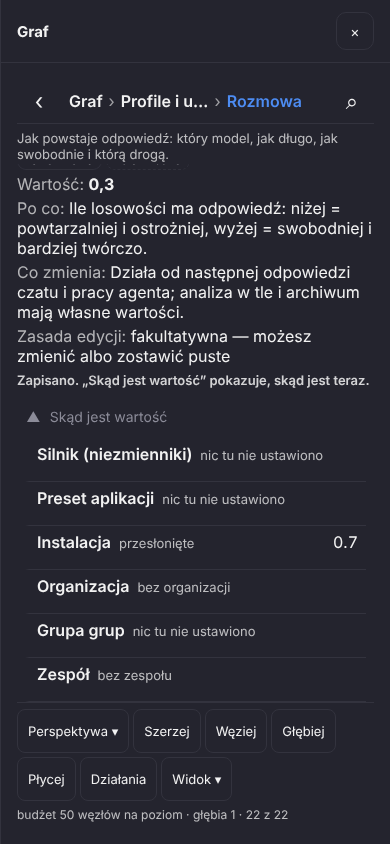
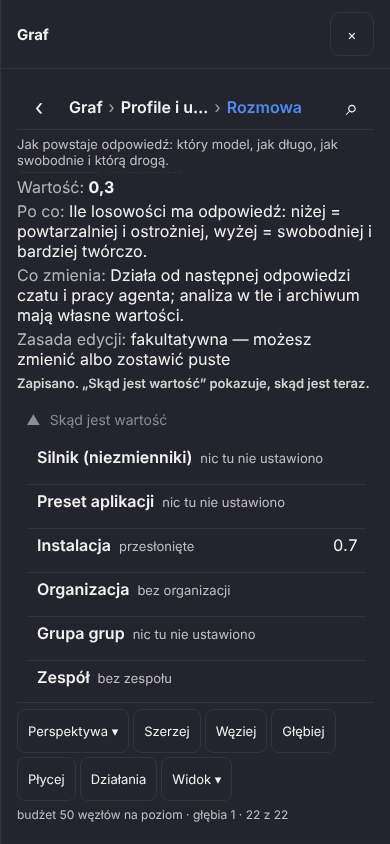
M1-W0 fix batch r1:b3 (docs): report section 'Co doszło w poprawkach r1:b3' (two findings shown already done in r1:b1), role-card and card-unset screenshots refreshed, 'Czego NIE ma' without the folded-notes item; INDEX entry with generators, test facts, decisions and what was not run (first-steps-c
Claude-Session: https://claude.ai/code/session_015yMVYJqXDd8sNSZdYq3gu5

diff --git a/docs/reports/M1_CHECKPOINT_0.md b/docs/reports/M1_CHECKPOINT_0.md
@@ -118,7 +118,7 @@ słowami**, **chipem klasy** (tani / średni / frontier / brak modelu) i stanem 
 ![karta roli](M1_CHECKPOINT_0/m1-settings-role-chain.png)
 
 Dotknij **Analiza w tle**. Karta mówi **z danych**: **Po co**, **Dziś** (które prace naprawdę wybierają model przez tę rolę),
-**Dziś** (odpowiedź słowami; notatka techniczna jądra „Dlaczego tak jest” jest złożona pod **Szczegóły techniczne**, zamknięte, dopóki jej nie dotkniesz); **Model** i **Klasa** z powodem słowo w słowo z jądra („tani, bo nazwa zawiera „mini” …”); **Jak
+**Dziś** (odpowiedź słowami; „Dlaczego tak jest” to zdanie po ludzku z danych ról (`reason_human`); notatka techniczna jądra — „Zapis techniczny (pliki, klucze)” — jest złożona pod **Szczegóły techniczne**, zamknięte, dopóki jej nie dotkniesz); **Model** i **Klasa** z powodem słowo w słowo z jądra („tani, bo nazwa zawiera „mini” …”); **Jak
 wybieramy model** — łańcuch polityki krok po kroku (1. wprost: pole „Model analizy w tle”; 2. rola; 3. brak — analiza
 lokalna, bez kosztu), z chipem **„ten krok wybiera”** przy tym, który zadecydował; **Przepływ dla każdej klasy modelu** —
 tani/średni/nieznany = „Klasyczne wywołanie i wąskie pytanie”, frontier = „Jedno wywołanie: cała rozmowa naraz”, oba z chipem
@@ -156,13 +156,34 @@ oddaje decyzję powłoce (`window.__loomBack()` zwraca `false` — tam Android p
   ma węzła, więc pasek mówi: „Działania są na karcie węzła: otwórz wiersz przez ⋯ albo wejdź w jeden.” Żaden przycisk paska nie
   mówi już „planowane”. Zrzut: `m1-navigator-actions.png`.
 - **Karta roli:** „Dziś” jest odpowiedzią; notatka techniczna jądra (nazwy plików, klucze) leży zamknięta pod „Szczegóły techniczne”
-  (gdy jądro przyśle `reason_human`, karta woli je). Chipy stanu mówią, czego dotyczą: „wybór przez rolę: planowane / częściowo”,
+  (od r1:b3 jądro przysyła `reason_human` z `ports.pack`: „Dlaczego tak jest” widać od razu po ludzku, pod „Szczegóły techniczne” leży „Zapis techniczny (pliki, klucze)”). Chipy stanu mówią, czego dotyczą: „wybór przez rolę: planowane / częściowo”,
   a nad tabelą ról stoi jedno zdanie, co znaczą chipy. Lista „Kto czyta” nazywa klucz etykietą pola („czyta Model analizy w tle”),
   goły klucz jest tylko w podpowiedzi (`title`).
 - **Słowa bez identyfikatorów:** „planowane — silnik nie ma dziś akcji na wartość jednej tury” i „Zapisane dla Ciebie: Razem” bez
   nawiasów z nazwami akcji, pozycji planu i kluczy (te są w INDEX).
 - **Start z linku** (`#czat/<id>`, `#warsztat`) wczytuje konfigurację jak zwykły start: język słów (`ui_language`), motyw i układ
   nawigatora (`navigator_layout`) są Twoimi ustawieniami, nie językiem przeglądarki. E2E karty ustawień startuje teraz z linku.
+
+## Co doszło w poprawkach r1:b3 (2026-10-21, fakty z przebiegu)
+
+- **× każdego ekranu ma 44 × 44 px** (było 38 × 38 — jedyny element pod progiem w 9 stanach szuflady) i etykietę ze słów powłoki:
+  „Zamknij: Ustawienia” (`panel_close`, pl/en), nie angielskie „Close panel”. Testy e2e mierzą teraz cały `.drawer`, nie tylko
+  korzeń ekranu.
+- **Karta roli bez żargonu na wierzchu, z danych:** każdy z 11 stanów ról w `ports.pack` ma obok notatki inżynierskiej (`reason`)
+  zdanie po ludzku (`reason_human`), np. „Większość prac analizy powstała, zanim były role, i czyta pole „Model analizy w tle”
+  wprost z ustawień zamiast pytać tej roli”. Jądro je przysyła, karta pokazuje „Dlaczego tak jest: …” od razu, a notatkę z nazwami
+  plików jako „Zapis techniczny (pliki, klucze)” pod „Szczegóły techniczne”. Ten sam podział na karcie węzła: „Zdejmij wartość: Ty”
+  mówi „planowane — silnik umie dziś zmienić wartość w Twoich ustawieniach, ale nie umie jej zdjąć”, a `config.json`/`settings.set`
+  leżą pod „Szczegóły techniczne”. Zrzuty odświeżone: `m1-settings-role-card.png`, `m1-navigator-card-unset.png`.
+- **Pierwsze kroki (CI `package.yml/first-steps --ui`, `docs/PIERWSZE_KROKI.md` §5):** krok 5 szedł do dawnego ekranu pól wprost
+  z menu, a od P5 menu ⋮ › Ustawienia otwiera osiem grup; skrypt idzie teraz Ustawienia › Silnik › „Wszystkie pola” › pola, a
+  dokument opisuje tę drogę i kartę pierwszego uruchomienia. Sonda tych samych kliknięć na serwerze dev (1100 × 760 i 390 × 844):
+  `settings-panel` zaraz po menu = false, po Silnik › Wszystkie pola = true (`cfg-base-url`, `cfg-default-model`,
+  `secret-api_key`, `secret-api_key-save` widoczne).
+- **Dwa zgłoszenia już zrobione w r1:b1** (`8c747ce9`): „Ta rozmowa w grafie” otwiera nawigator na `conv:<otwarta rozmowa>`
+  (korzeń, gdy żadna nie jest otwarta), nie dawny `panel:graph`; siedem testów M1 (`navigator-state`, `node-card-state`,
+  `navigator-map`, `settings-human`, `role-card`, `m1-navigator`, `m1-settings`) jest w `loom.yml`.
+- Testy (fakty): `tsc` + `npm run build` czyste; jądro dev przebudowane przyrostowo (po `ports.pack`/`projection.cpp`/`test_ports.cpp`, potem po `builtin.inc`); `ctest -R "ports|graph_projection|onboarding"` 11/11; testy jednostkowe web (0 fail): shell-history 13, shell-menu 8, navigator-state 9, node-card-state 8, navigator-map 9, settings-human 7, shell 9, composer-menu 13, role-card 5; `test:m1-navigator` 12/12, `test:m1-settings` 9/9 (× mierzony w całym `.drawer`, „Dlaczego tak jest” widoczne bez dotknięcia, „Zapis techniczny” złożony do dotknięcia); sonda kroku 5 pierwszych kroków na serwerze dev (1100 × 760 i 390 × 844) zielona, `close-panel` 44 × 44 „Zamknij: Ustawienia”. Nie uruchomione: `first-steps-check.sh --ui` z archiwum, pełne `npm run e2e`, `android-smoke`.
 
 ## Czego jeszcze NIE ma (i dlaczego)
 
@@ -180,9 +201,6 @@ oddaje decyzję powłoce (`window.__loomBack()` zwraca `false` — tam Android p
 - **Nie na emulatorze Androida.** Powłoka (wstecz przez `OnBackPressedDispatcher`, `adjustResize`, prostokąty gestów,
   pytanie o wyjście) i przebieg `android-smoke` to M1-A0 (sesja S2). Kroki dla sterownika są w bloku `gate0` w
   `docs/reports/M1_W0_TESTIDS.md`.
-- Notatki techniczne jądra („Dlaczego tak jest” na karcie roli, powody „planowane” pól klasy) nadal cytują nazwy plików i akcji
-  (`actions.pack`, `settings.set`); ekran je składa pod „Szczegóły techniczne”, a jądro nie wysyła jeszcze `reason_human` dla
-  stanu roli — przepisanie tych zdań na prostsze bez utraty treści to praca nad danymi (`guardian.pack`), nie nad ekranem.
 - Perspektywa ▾ to lista jądra i jego krawędzie; **sektory / obok siebie** i renderery z `view_renderers` to M1-W3. `actions.for`
   bierze element (klasa, cechy), nie adres grafu — Działania pokazują działania z `graph.card`, które jądro liczy dla węzła.
 

diff --git a/docs/reports/INDEX.md b/docs/reports/INDEX.md
@@ -1555,3 +1555,11 @@ budowy cmake nie uruchamiano (dysk zajęty przez bramkę gdzie indziej).
 - Testy uruchomione (fakty): `tsc` + `npm run build` czyste; `test:navigator-state` 9/9 (nowy test perspektyw i celu Działań), `test:role-card` 5/5, `test:navigator-map` 9/9; jądro przebudowane przyrostowo po `builtin.inc`; `test:m1-navigator` 12/12 (krok Perspektywa/Działania przepisany, Działania w korzeniu, start z linku), `test:m1-settings` 9/9 (chipy, Szczegóły techniczne, Kto czyta). 16 zrzutów odświeżonych w `docs/reports/M1_CHECKPOINT_0/` (nowe: `m1-navigator-perspective.png`, `m1-navigator-actions.png`). Raport `M1_CHECKPOINT_0.md`: sekcja „Co doszło w poprawkach r1:b2”, „Czego NIE ma” bez Perspektywy/Działań, fakty testów.
 - Decyzje i jak cofnąć: (a) perspektywy zostają przy wejściu głębiej i powrocie (sposób patrzenia, nie własność poziomu); cofnięcie: `drillInto`/`goBack` → `perspectives: []`. (b) Działania otwierają kartę zamiast wołać `actions.for` — `actions.for` bierze element (klasa, cechy, atrybuty), nie adres grafu, a `graph.card` już liczy działania węzła; cofnięcie/rozszerzenie: zawołać `actions.for` z atrybutami ogniska, gdy jądro zmapuje adresy na elementy. (c) W korzeniu Działania mówią, gdzie są działania (`actions.no_focus`), zamiast być wyłączone — przycisk nie znika i nie udaje; cofnięcie: `disabled` gdy `focusOf(state) === ""`. (d) Chip stanu niesie podmiot w słowie katalogu, nie w kodzie (`state.planned` = „wybór przez rolę: planowane”); goły „planowane” to osobne id `planned`; cofnięcie: słowa w `presentation.roles`. (e) Notatka techniczna w zamkniętym `Disclosure` z `reason_human` w pierwszeństwie; cofnięcie: akapit `role-status-reason` bez `Disclosure`. (f) Etykieta klucza: `role.settings` → `settings.fields human.label` → klucz; cofnięcie: `{ key: flow.key }`. (g) Start z linku wczytuje config; cofnięcie: `return` przed `getConfig`. (h) Słowa `bar.planned` i pole `works` usunięte, nie zostawione „na przyszłość” — przycisk, który nie działa, nie trafia na pasek (test `navigator-state` pilnuje braku `works` i słowa).
 - Nie zrobione tu: pełny przebieg wszystkich `test:*` + `npm run e2e` (uruchomione skrypty dotknięte zmianą); `android-smoke` (S2); jądro nie wysyła `reason_human` dla stanu roli (karta już je woli — zadanie danych `guardian.pack`); sektory / obok siebie dla perspektyw (M1-W3).
+### S1 / M1-W0 (poprawki po przeglądzie r1:b3: × 44 px, karta roli bez żargonu na wierzchu — z danych, pierwsze kroki przez Silnik › Wszystkie pola) (2026-10-21, branch `claude/m1-w0`)
+
+- Co jest: (1) `.drawer-header .icon-btn` min 44 × 44 px (`loom/web/src/styles.css`; powłoka czatu zostaje przy 38 px), etykieta × = słowo powłoki `panel_close` „Zamknij: {{screen}}” (`presentation.ui_shell`, pl/en), e2e M1 mierzą cały `.drawer`. (2) `loom/data/runtime/ports.pack`: każdy z 11 stanów ról ma `reason_human` (zdanie po ludzku) obok `reason` (notatka inżynierska); `projection.cpp` przesyła je w `roles.resolved`; `test_ports` wymaga `reason_human` w pl/en; `RoleCard.tsx` pokazuje „Dlaczego tak jest: <reason_human>” od razu, `reason` pod „Szczegóły techniczne” jako „Zapis techniczny (pliki, klucze)” (`state.technical`); karta węzła (`node-card-state.ts`, `NodeCard.tsx`): powód „planowane” przy „Zdejmij wartość: Ty” po ludzku, notatka o `config.json`/`settings.set` złożona pod „Szczegóły techniczne” (`card.unset.person_planned_technical`, `card.technical`). (3) `deploy/first-steps-ui.mjs` krok 5: menu ⋮ › Ustawienia › `shum-group-open-silnik` › `shum-all-fields` (`.disclosure-head`) › `settings-panel`; `docs/PIERWSZE_KROKI.md` §5 opisuje tę drogę i kartę pierwszego uruchomienia. (4) Dwa zgłoszenia odrzucone jako już zrobione w r1:b1 (`8c747ce9`): „Ta rozmowa w grafie” → `navigator:conv:current` (korzeń bez rozmowy), siedem testów M1 w `loom.yml` (linie 242–250).
+- Generaty: `runtime_profiles_embedded.inc` (po `ports.pack`), `builtin.inc` + `conversation-view.json` (po `conversation_view.pack`); `gen_runtime_profiles.py --check` i `gen_onboarding_pack.py --check` czyste.
+- Testy (fakty): `tsc` + `npm run build` czyste; jądro dev przebudowane przyrostowo (po `ports.pack`/`projection.cpp`/`test_ports.cpp`, potem po `builtin.inc`); `ctest -R "ports|graph_projection|onboarding"` 11/11; testy jednostkowe web (0 fail): shell-history 13, shell-menu 8, navigator-state 9, node-card-state 8, navigator-map 9, settings-human 7, shell 9, composer-menu 13, role-card 5; `test:m1-navigator` 12/12, `test:m1-settings` 9/9 (× mierzony w całym `.drawer`, „Dlaczego tak jest” widoczne bez dotknięcia, „Zapis techniczny” złożony do dotknięcia); sonda kroku 5 pierwszych kroków na serwerze dev (1100 × 760 i 390 × 844) zielona, `close-panel` 44 × 44 „Zamknij: Ustawienia”. Nie uruchomione: `first-steps-check.sh --ui` z archiwum, pełne `npm run e2e`, `android-smoke`.
+- Decyzje i jak cofnąć: (a) zdanie po ludzku żyje w danych obok notatki (nie jest generowane z niej) — cofnięcie: usunąć `reason_human` z `ports.pack`, linię w `projection.cpp` i klucz w `test_ports.cpp`; karta wtedy pokazuje tylko złożoną notatkę. (b) × nazywa ekran („Zamknij: Ustawienia”) — cofnięcie: słowo `panel_close`. (c) Notatka techniczna karty węzła to osobne słowo, nie część powodu — cofnięcie: `technicalText` w `node-card-state.ts`. (d) Pełny `deploy/first-steps-check.sh <archiwum> --ui` nie uruchomiony (wymaga archiwum z buildu release, dysk ~7 GB; CI `package.yml/first-steps` robi to przy buildzie archiwum) — zastąpiony sondą tych samych kliknięć na serwerze dev przy 1100 × 760 i 390 × 844 (`settings-panel` zaraz po menu = false, po Silnik › Wszystkie pola = true, pola kluczy widoczne).
+- Nie zrobione tu: `first-steps-check.sh --ui` z archiwum; `android-smoke` (S2); pełny przebieg wszystkich `test:*` + `npm run e2e` (uruchomione skrypty dotknięte zmianą).
+
